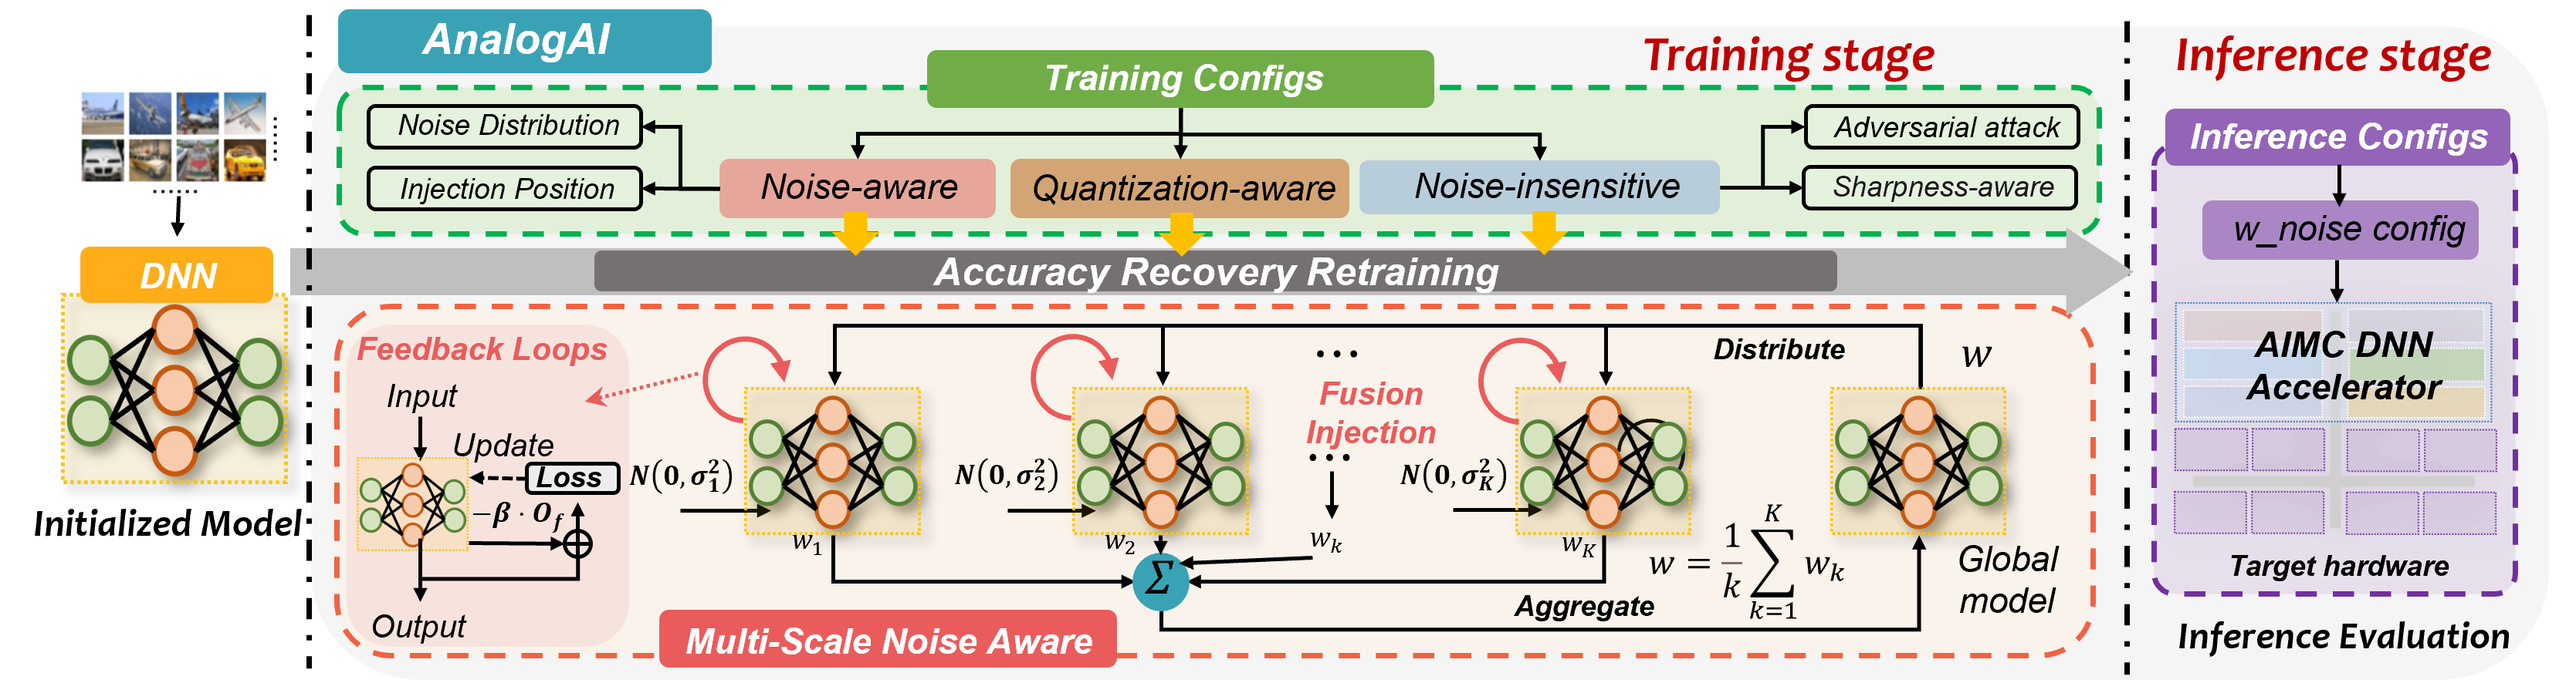
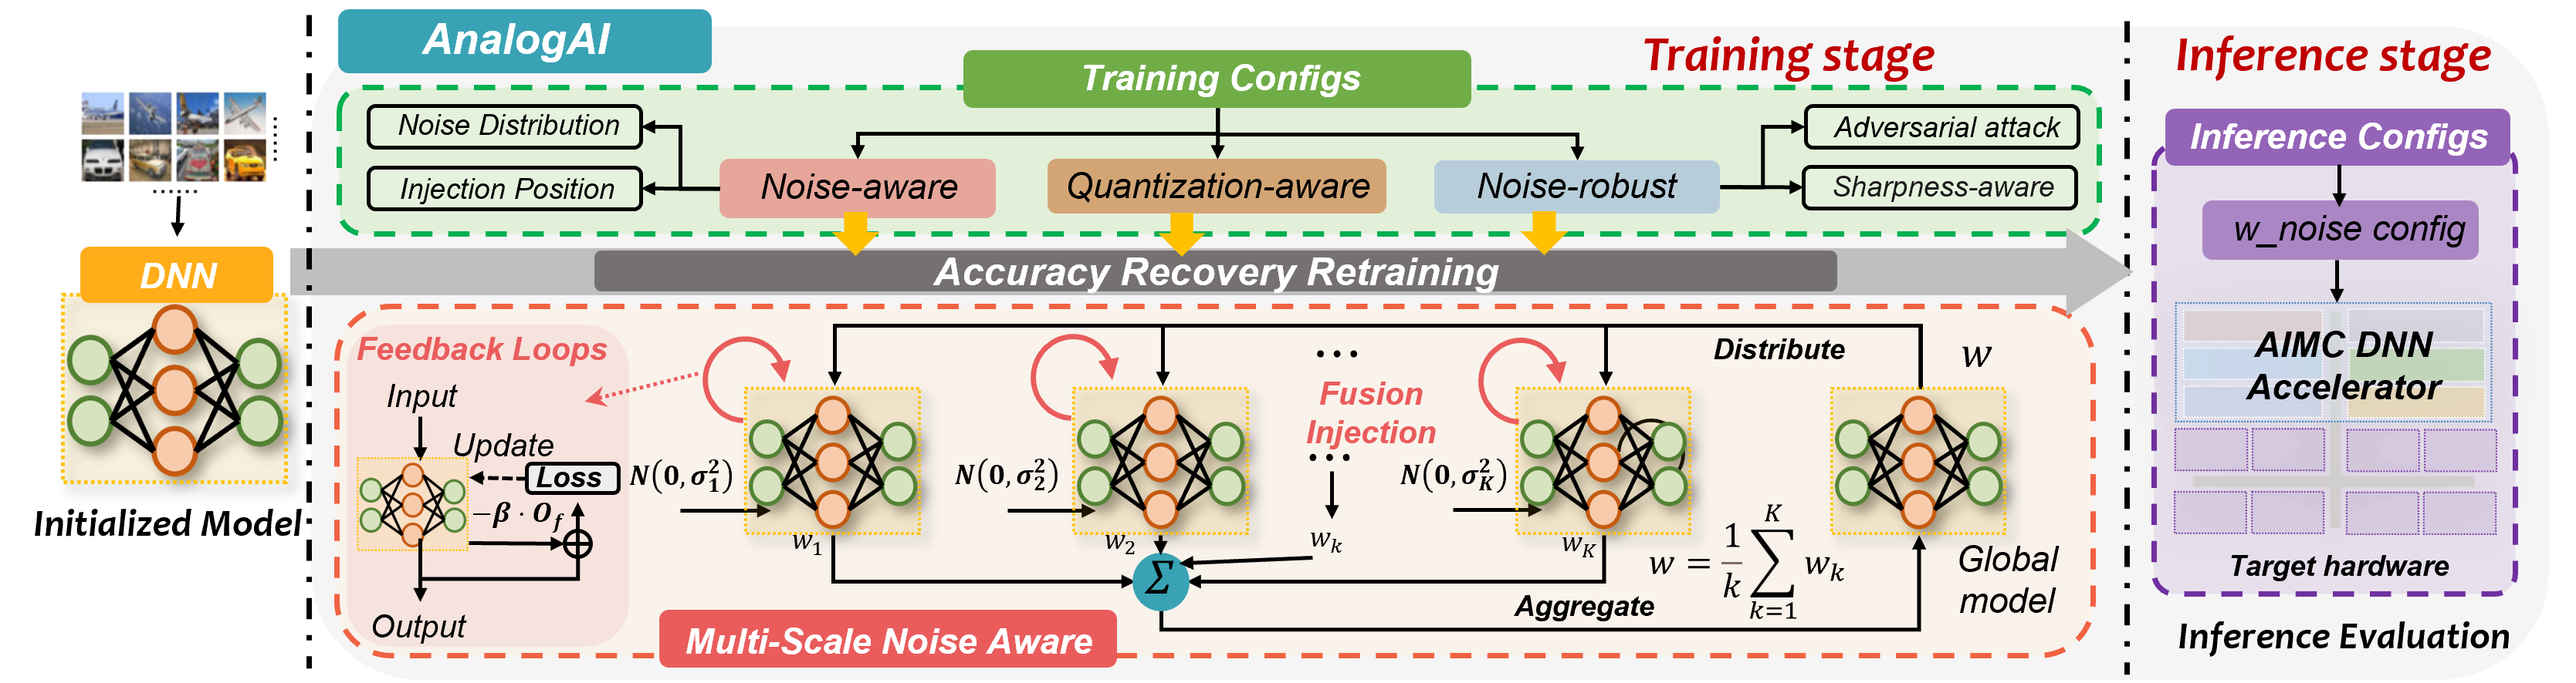
update README

Changed region(s): [[0.374, 0.1828, 0.6545, 0.3352], [0.4052, 0.0609, 0.5921, 0.1524], [0.3428, 0.0609, 0.374, 0.1524]]

diff --git a/recovery/noise_robust/sam.py b/recovery/noise_robust/sam.py
@@ -1,0 +1,62 @@
+import torch
+
+class SAM(torch.optim.Optimizer):
+    def __init__(self, params, base_optimizer, rho=0.05, adaptive=False, **kwargs):
+        assert rho >= 0.0, f"Invalid rho, should be non-negative: {rho}"
+
+        defaults = dict(rho=rho, adaptive=adaptive, **kwargs)
+        super(SAM, self).__init__(params, defaults)
+
+        self.base_optimizer = base_optimizer(self.param_groups, **kwargs)
+        self.param_groups = self.base_optimizer.param_groups
+        self.defaults.update(self.base_optimizer.defaults)
+
+    @torch.no_grad()
+    def first_step(self, zero_grad=False):
+        grad_norm = self._grad_norm()
+        for group in self.param_groups:
+            scale = group["rho"] / (grad_norm + 1e-12)
+
+            for p in group["params"]:
+                if p.grad is None: continue
+                self.state[p]["old_p"] = p.data.clone()
+                e_w = (torch.pow(p, 2) if group["adaptive"] else 1.0) * p.grad * scale.to(p)
+                p.add_(e_w)  # climb to the local maximum "w + e(w)"
+
+        if zero_grad: self.zero_grad()
+
+    @torch.no_grad()
+    def second_step(self, zero_grad=False):
+        for group in self.param_groups:
+            for p in group["params"]:
+                if p.grad is None: continue
+                p.data = self.state[p]["old_p"]  # get back to "w" from "w + e(w)"
+
+        self.base_optimizer.step()  # do the actual "sharpness-aware" update
+
+        if zero_grad: self.zero_grad()
+
+    @torch.no_grad()
+    def step(self, closure=None):
+        assert closure is not None, "Sharpness Aware Minimization requires closure, but it was not provided"
+        closure = torch.enable_grad()(closure)  # the closure should do a full forward-backward pass
+
+        self.first_step(zero_grad=True)
+        closure()
+        self.second_step()
+
+    def _grad_norm(self):
+        shared_device = self.param_groups[0]["params"][0].device  # put everything on the same device, in case of model parallelism
+        norm = torch.norm(
+                    torch.stack([
+                        ((torch.abs(p) if group["adaptive"] else 1.0) * p.grad).norm(p=2).to(shared_device)
+                        for group in self.param_groups for p in group["params"]
+                        if p.grad is not None
+                    ]),
+                    p=2
+               )
+        return norm
+
+    def load_state_dict(self, state_dict):
+        super().load_state_dict(state_dict)
+        self.base_optimizer.param_groups = self.param_groups

diff --git a/recovery/noise_robust/adversarial.py b/recovery/noise_robust/adversarial.py
@@ -1,0 +1,31 @@
+import torch
+
+def FGSM(image, epsilon, data_grad):
+    sign_data_grad = data_grad.sign()
+    # Create the perturbed image by adjusting each pixel of the input image
+    perturbed_image = image + epsilon * sign_data_grad
+    # Adding clipping to maintain [0,1] range
+    perturbed_image = torch.clamp(perturbed_image, 0, 1)
+    perturbed_image = perturbed_image.detach()
+    perturbed_image.requires_grad = True
+    return perturbed_image
+
+
+
+def PGD(model, images, labels, loss_fn, epsilon, alpha, num_steps):
+    
+    original_images = images.clone().detach()
+    images = images + torch.randn_like(images) * epsilon
+    images = torch.clamp(images, 0, 1)
+
+    for i in range(num_steps):
+        images.requires_grad = True
+        outputs = model(images)
+        model.zero_grad()
+        loss = loss_fn(outputs, labels)
+        loss.backward()
+        adv_images = images + alpha * images.grad.sign()
+        eta = torch.clamp(adv_images - original_images, min=-epsilon, max=epsilon)
+        images = torch.clamp(original_images + eta, min=0, max=1).detach_()
+    
+    return images

diff --git a/utils/utils.py b/utils/utils.py
@@ -17,8 +17,8 @@ from datetime import datetime
 from recovery.noise_aware.noise_inject import InjectForward, InjectWeight, InjectWeightNoise
 import argparse
 import os
-from recovery.noise_intensive import adversarial
-from recovery.noise_intensive.sam import SAM
+from recovery.noise_robust import adversarial
+from recovery.noise_robust.sam import SAM
 
 def get_foundation_model(config):
     models = os.listdir('./foundation_model')
